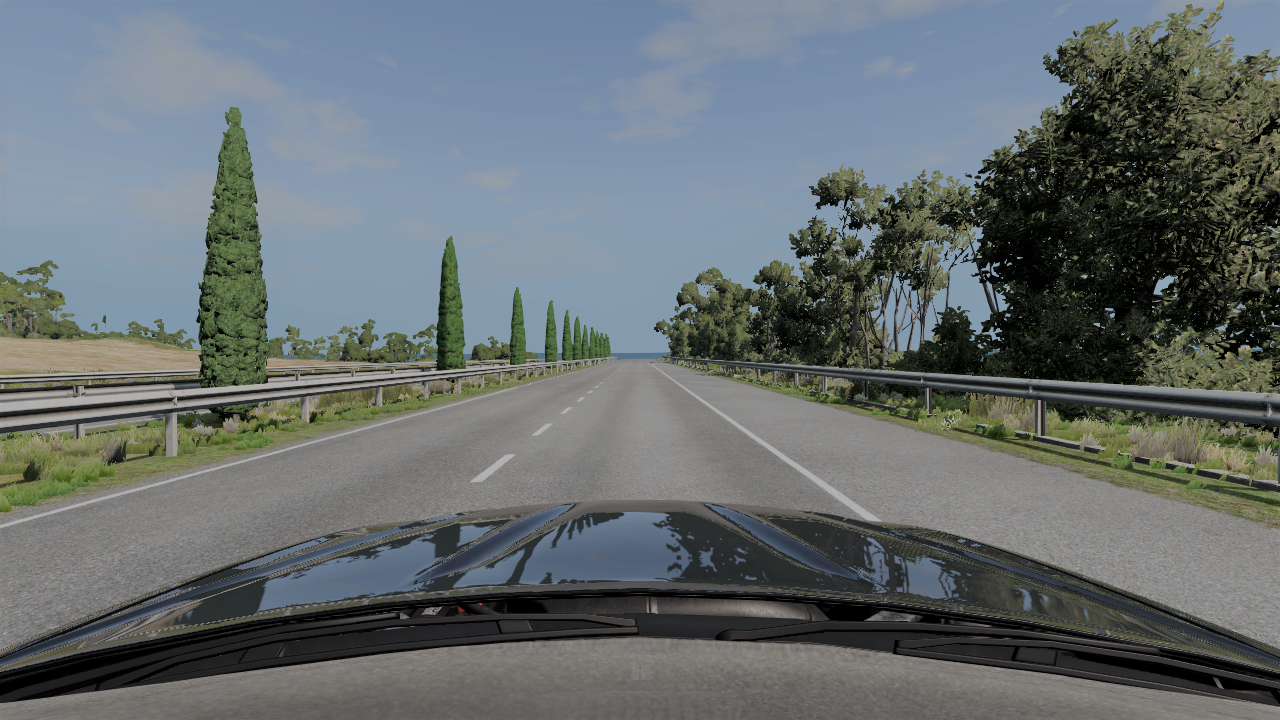
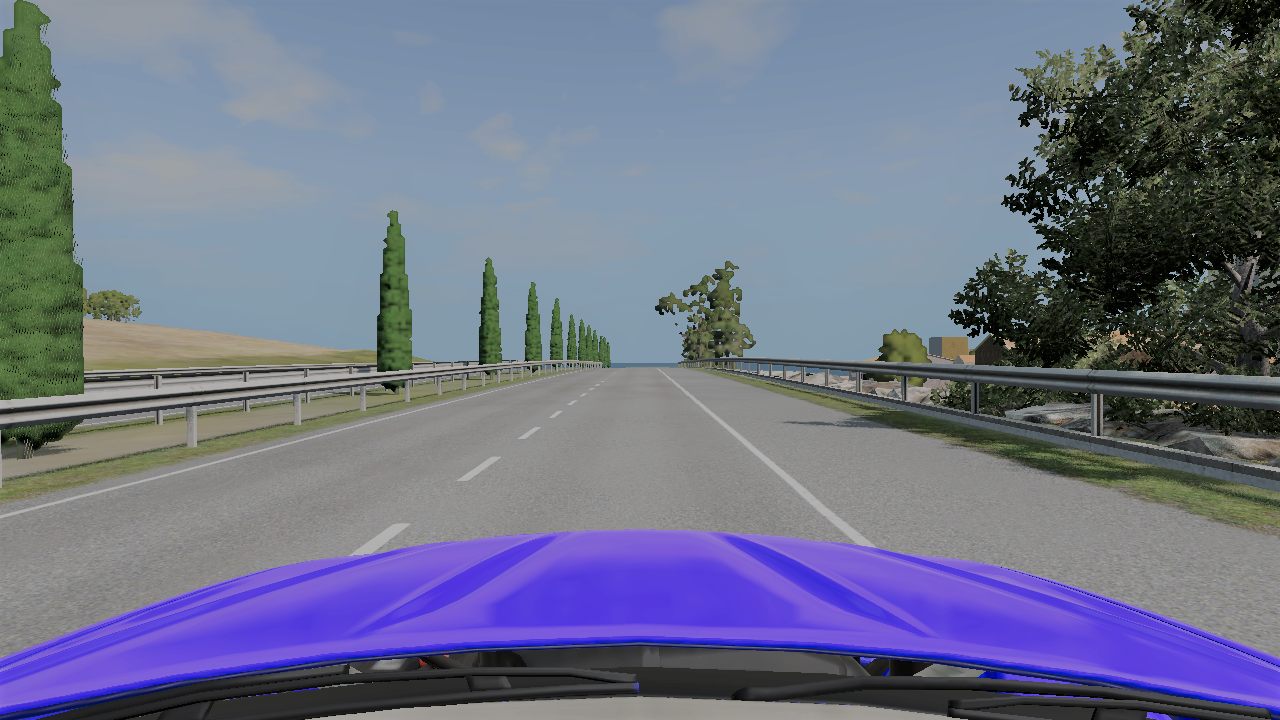
Adjusted for new camera settings

diff --git a/BeamADAS_Processor/main.py b/BeamADAS_Processor/main.py
@@ -8,7 +8,7 @@ import cv2
 import glob
 import os
 
-img = cv2.imread('.\\test_curve1.png')
+img = cv2.imread('.\\test_img.png')
 
 def birdeye_view(img):
     img_size = (img.shape[1], img.shape[0])
@@ -17,10 +17,10 @@ def birdeye_view(img):
     # Source points taken from images with straight lane lines, these are to become parallel after the warp transform
     # Needs to be updated with accurate lane coordinates
     src = np.array([
-        (430, 520), # bottom-left corner
-        (630, 360), # top-left corner
-        (645, 360), # top-right corner
-        (875, 520) # bottom-right corner
+        (355, 555), # bottom-left corner
+        (625, 365), # top-left corner
+        (655, 365), # top-right corner
+        (875, 555) # bottom-right corner
     ], dtype='f')
     dst = np.array([
         [offset, img_size[1]],             # bottom-left corner
@@ -44,13 +44,13 @@ def binary_threshold(img):
     # Transform to gray scale
     gray = cv2.cvtColor(img, cv2.COLOR_BGR2GRAY)
     # Apply sobel in x direction (detect vertical lines)
-    sobelx = cv2.Sobel(gray, 6, 1, 0)
+    sobelx = cv2.Sobel(gray, cv2.CV_64F, 1, 0) # type: ignore
     abs_sobelx = np.absolute(sobelx)
 
     scaled_sobel = np.uint8(255*abs_sobelx/np.max(abs_sobelx))
     sx_binary = np.zeros_like(scaled_sobel)
     
-    sx_binary[(scaled_sobel >= 120) & (scaled_sobel <= 255)] = 1
+    sx_binary[(scaled_sobel >= 90) & (scaled_sobel <= 255)] = 1
 
     # Detect white pixels
     white_binary = np.zeros_like(gray)
@@ -80,6 +80,10 @@ def binary_threshold(img):
 binary = binary_threshold(img)
 out_img = np.dstack((binary, binary, binary))*255 # type: ignore
 plt.imsave('binary_img_no_yellow.png', out_img)
+
+# Test 3 - successful
+binary_birdeye, M_inv = birdeye_view(binary)
+plt.imsave('binary_birdeye.png', binary_birdeye)
 
 def detect_lane_lines(binary_birdeye):
     # Make histogram of bottom half of img
@@ -154,40 +158,38 @@ def fit_poly(binary_birdeye, leftx, lefty, rightx, righty):
 
     return left_fit, right_fit, left_fitx, right_fitx, ploty
 
-# def draw_poly_lines(binary_warped, left_fitx, right_fitx, ploty):     
-#     # Create an image to draw on and an image to show the selection window
-#     out_img = np.dstack((binary_warped, binary_warped, binary_warped))*255
-#     window_img = np.zeros_like(out_img)
+def draw_poly_lines(binary_warped, left_fitx, right_fitx, ploty):     
+    # Create an image to draw on and an image to show the selection window
+    out_img = np.dstack((binary_warped, binary_warped, binary_warped))*255
+    window_img = np.zeros_like(out_img)
         
-#     margin = 100
-#     # Generate a polygon to illustrate the search window area
-#     # And recast the x and y points into usable format for cv2.fillPoly()
-#     left_line_window1 = np.array([np.transpose(np.vstack([left_fitx-margin, ploty]))])
-#     left_line_window2 = np.array([np.flipud(np.transpose(np.vstack([left_fitx+margin, 
-#                               ploty])))])
-#     left_line_pts = np.hstack((left_line_window1, left_line_window2))
-#     right_line_window1 = np.array([np.transpose(np.vstack([right_fitx-margin, ploty]))])
-#     right_line_window2 = np.array([np.flipud(np.transpose(np.vstack([right_fitx+margin, 
-#                               ploty])))])
-#     right_line_pts = np.hstack((right_line_window1, right_line_window2))
+    margin = 100
+    # Generate a polygon to illustrate the search window area
+    # And recast the x and y points into usable format for cv2.fillPoly()
+    left_line_window1 = np.array([np.transpose(np.vstack([left_fitx-margin, ploty]))])
+    left_line_window2 = np.array([np.flipud(np.transpose(np.vstack([left_fitx+margin, 
+                              ploty])))])
+    left_line_pts = np.hstack((left_line_window1, left_line_window2))
+    right_line_window1 = np.array([np.transpose(np.vstack([right_fitx-margin, ploty]))])
+    right_line_window2 = np.array([np.flipud(np.transpose(np.vstack([right_fitx+margin, 
+                              ploty])))])
+    right_line_pts = np.hstack((right_line_window1, right_line_window2))
 
-#     # Draw the lane onto the warped blank image
-#     cv2.fillPoly(window_img, np.int_([left_line_pts]), (100, 100, 0))
-#     cv2.fillPoly(window_img, np.int_([right_line_pts]), (100, 100, 0))
-#     result = cv2.addWeighted(out_img, 1, window_img, 0.3, 0)
+    # Draw the lane onto the warped blank image
+    cv2.fillPoly(window_img, np.int_([left_line_pts]), (100, 100, 0)) # type: ignore
+    cv2.fillPoly(window_img, np.int_([right_line_pts]), (100, 100, 0)) # type: ignore
+    result = cv2.addWeighted(out_img, 1, window_img, 0.3, 0)
     
-#     # Plot the polynomial lines onto the image
-#     plt.plot(left_fitx, ploty, color='green')
-#     plt.plot(right_fitx, ploty, color='blue')
-#     ## End visualization steps ##
-#     return result
+    # Plot the polynomial lines onto the image
+    plt.plot(left_fitx, ploty, color='green')
+    plt.plot(right_fitx, ploty, color='blue')
+    ## End visualization steps ##
+    return result
     
-binary_birdeye, M_inv = birdeye_view(binary)
-plt.imsave('binary_birdeye.png', binary_birdeye)
-# leftx, lefty, rightx, righty = find_lane_pixels_using_histogram(binary_warped)
-# left_fit, right_fit, left_fitx, right_fitx, ploty = fit_poly(binary_warped,leftx, lefty, rightx, righty)
+# leftx, lefty, rightx, righty = detect_lane_lines(binary_birdeye)
+# left_fit, right_fit, left_fitx, right_fitx, ploty = fit_poly(binary_birdeye,leftx, lefty, rightx, righty)
 # print(left_fit)
-# out_img = draw_poly_lines(binary_warped, left_fitx, right_fitx, ploty)
+# out_img = draw_poly_lines(binary_birdeye, left_fitx, right_fitx, ploty)
 # plt.imshow(out_img)
 
 # plt.imshow(out_img, cmap='gray')
